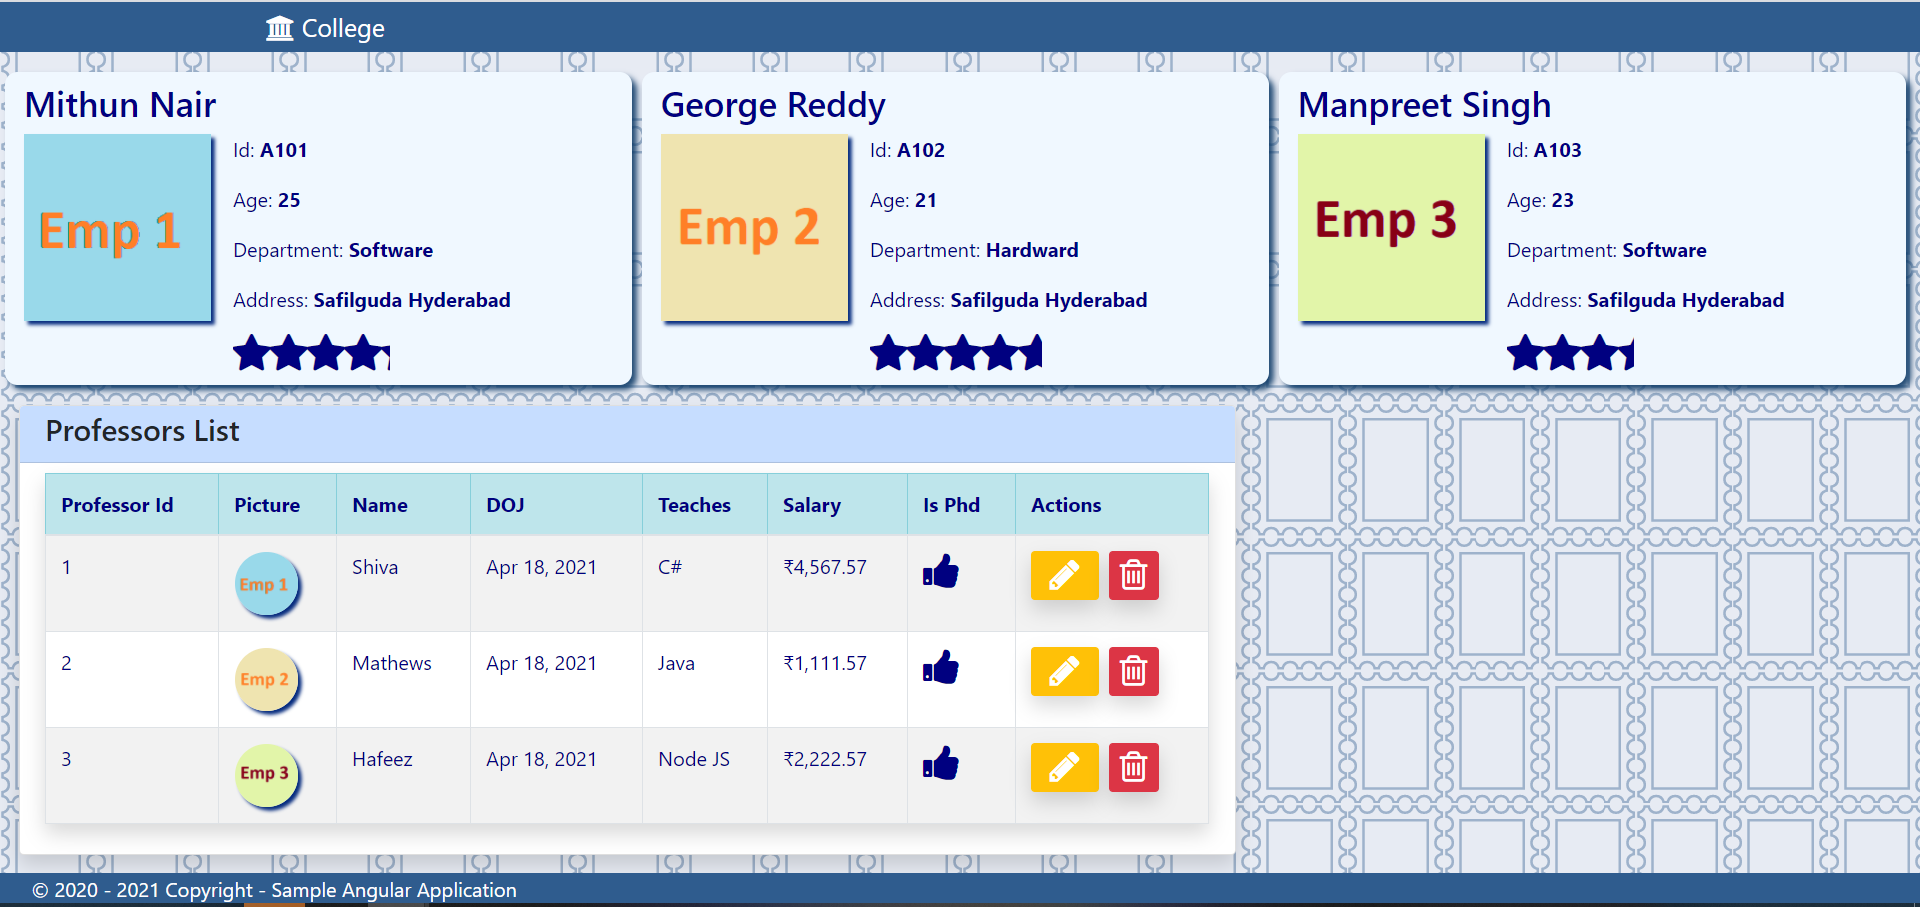
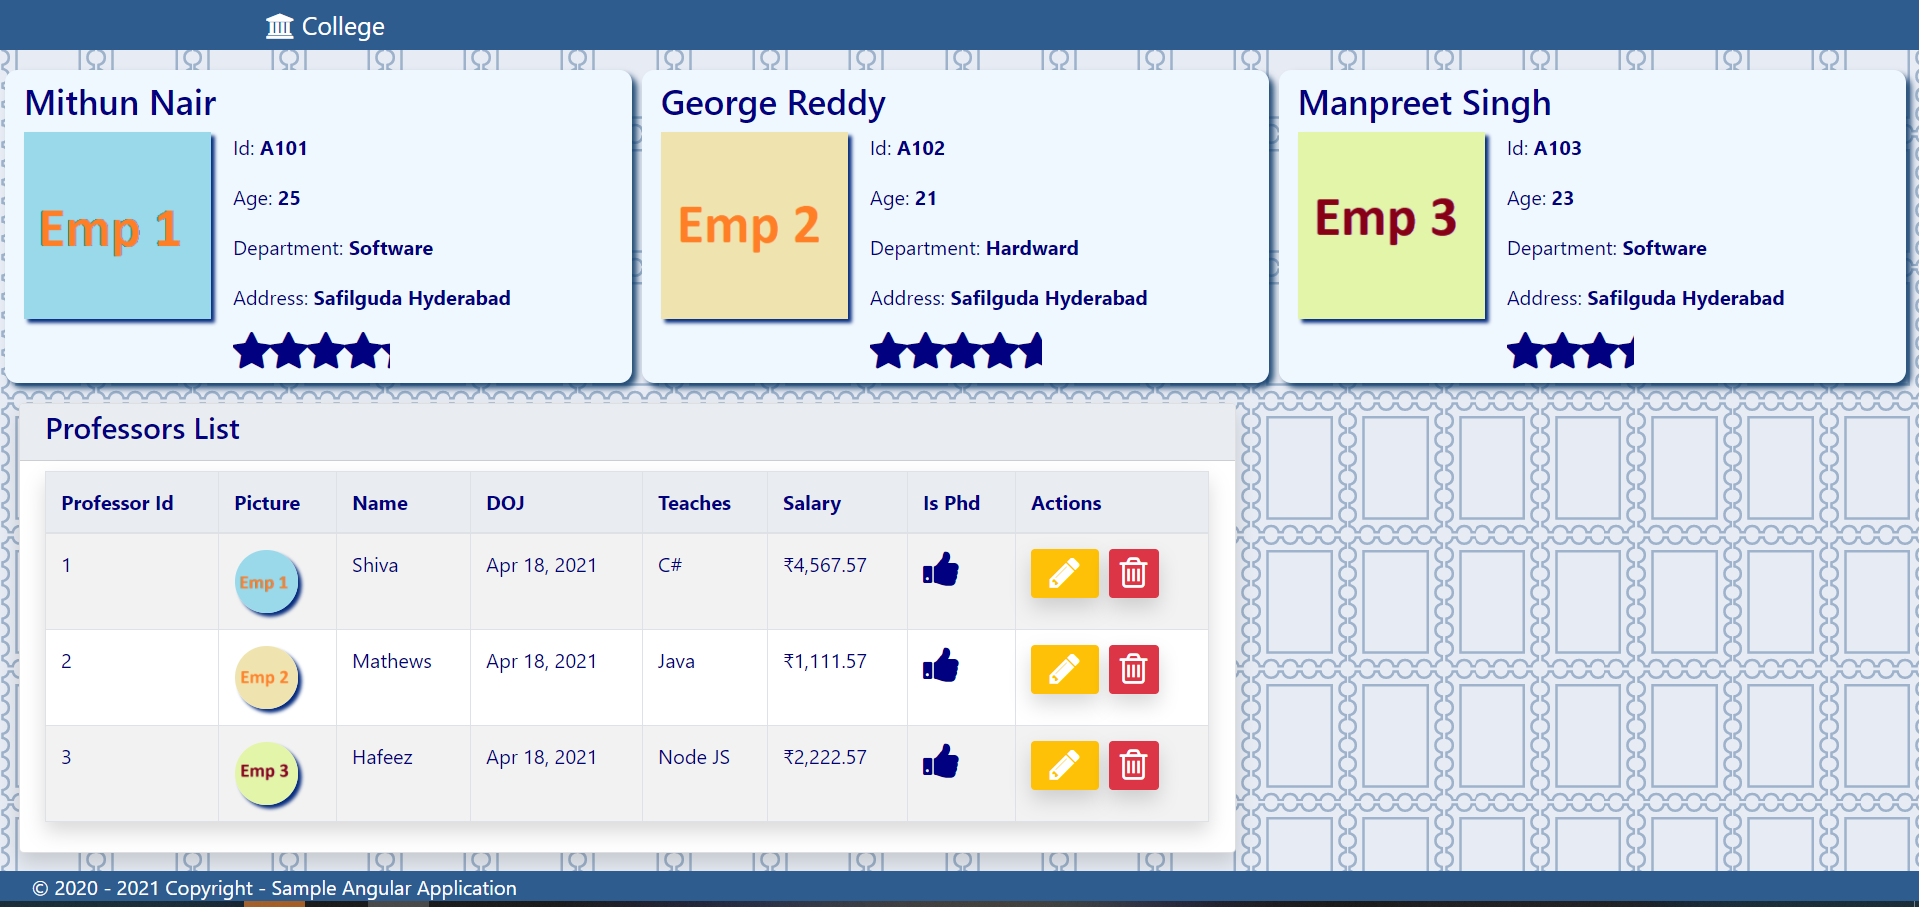
Few Styling

diff --git a/AngularHyderabad/4_WorkingWithComponents_17Apr/collegewebapp/src/app/components/professors/professors-list/professors-list.component.html b/AngularHyderabad/4_WorkingWithComponents_17Apr/collegewebapp/src/app/components/professors/professors-list/professors-list.component.html
@@ -4,7 +4,7 @@
   </div>
   <div class="card-body py-2">
     <table class='table table-striped table-bordered table-hover shadow' aria-labelledby="tableLabel">
-      <thead class="table-info">
+      <thead>
         <tr>
           <th>Professor Id</th>
           <th>Picture</th>

diff --git a/AngularHyderabad/4_WorkingWithComponents_17Apr/collegewebapp/src/styles.css b/AngularHyderabad/4_WorkingWithComponents_17Apr/collegewebapp/src/styles.css
@@ -32,7 +32,8 @@ body {
   }
 
   .card-header {
-    background-color: rgb(198, 221, 255);
+    background-color: rgb(233, 236, 240);
+    color: navy;
   }
 
   p {

diff --git a/AngularHyderabad/4_WorkingWithComponents_17Apr/collegewebapp/src/app/components/professors/professors-list/professors-list.component.css b/AngularHyderabad/4_WorkingWithComponents_17Apr/collegewebapp/src/app/components/professors/professors-list/professors-list.component.css
@@ -7,3 +7,8 @@ img {
   left: 0;
   box-shadow: 3px 3px 3px rgb(5, 43, 126);
 }
+
+thead{
+  background-color: rgb(233, 236, 240);
+  color: navy;
+}

diff --git a/AngularHyderabad/4_WorkingWithComponents_17Apr/collegewebapp/src/app/components/employees/employees-list/employees-list.component.css b/AngularHyderabad/4_WorkingWithComponents_17Apr/collegewebapp/src/app/components/employees/employees-list/employees-list.component.css
@@ -18,3 +18,5 @@ div {
       border-radius: 10px;
     width: 50%;
   }
+
+ 
